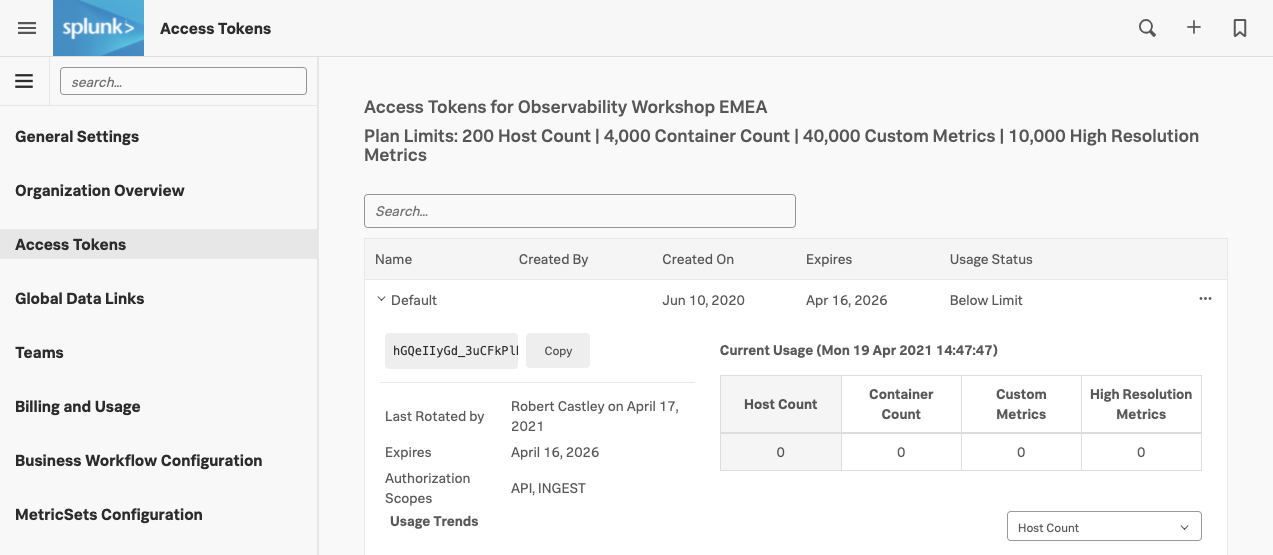
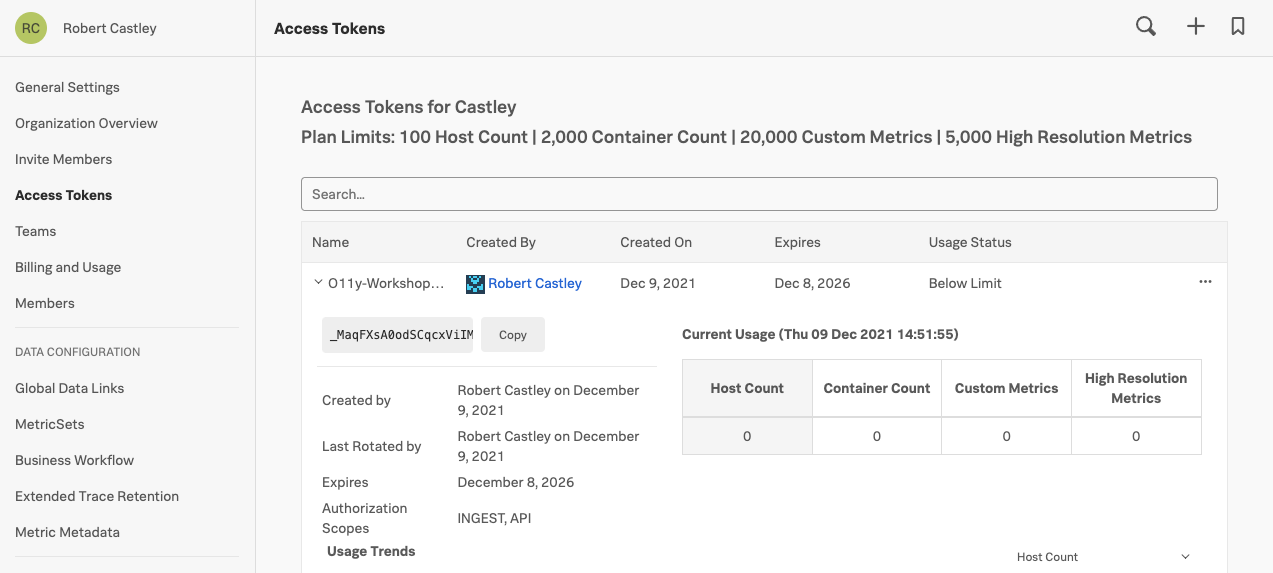
Updated screenshots for new UI

diff --git a/docs/otel/k3s.md b/docs/otel/k3s.md
@@ -7,27 +7,19 @@
 
 ## 1. Obtain Access Token
 
-You will need to obtain your Access Token[^1] from the Splunk UI once Kubernetes is running.
-
-You can find your Access Token from the top left hamburger menu then selecting **Organization Settings → Access Tokens**.
+You will need to obtain your Access Token[^1] from the Splunk UI. You can find the workshop Access Token by clicking **>>** bottom left and then selecting **Settings → Access Tokens**.
 
 Expand the workshop token that your host has instructed you to use e.g. **O11y-Workshop-ACCESS**, then click on **Show Token** to expose your token. Click the **Copy**{: .label-button  .sfx-ui-button-grey} button to copy to clipboard. Please do not use the **Default** token!
 
 ![Access Token](../images/otel/access-token.png)
 
-!!! info "Please do not attempt to create your own token"
+!!! warn "Please do not attempt to create your own token"
     This will complicate our clean process after the workshop.
     However if you do, please make sure it has only **INGEST** & **API** as scope!!
 
-You will also need to obtain the name of the Realm[^2] for your Splunk account.  From the hamburger menu, click on your name and select **Account Settings**.
+You will also need to obtain the name of the Realm[^2] for your Splunk account.  At the top of the side menu, click on your name and select **Account Settings**. The Realm can be found in the middle of the page within the Organizations section.  In this example it is `us0`.
 
 ![Account Settings](../images/otel/account-settings.png)
-
-The Realm can be found in the middle of the page within the Organizations section.  In this example it is `us0`.
-
-![Realm](../images/otel/realm.png)
-
----
 
 ## 2. Installation using Helm
 
@@ -141,7 +133,7 @@ Use the label set by the `helm` install to tail logs (You will need to press ++c
 
 ## 3. Validate metrics in the UI
 
-In the Splunk UI, from the hamburger menu top left click on **Infrastructure**.
+In the Splunk UI, click the **>>** bottom left and click on **Infrastructure**.
 
 ![Selecting the Kubernetes Navigator Map](../images/otel/clustermap-nav.png)
 
